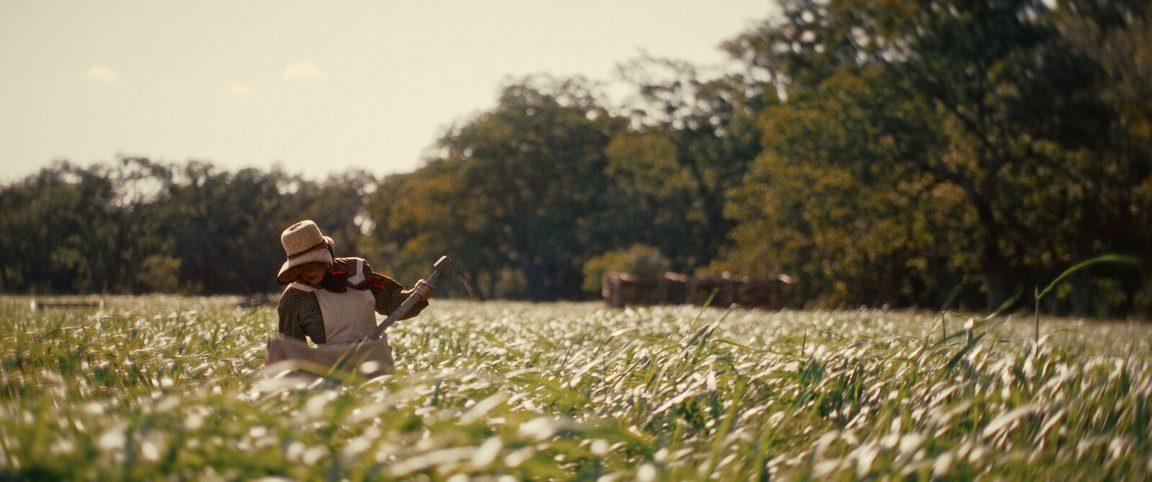
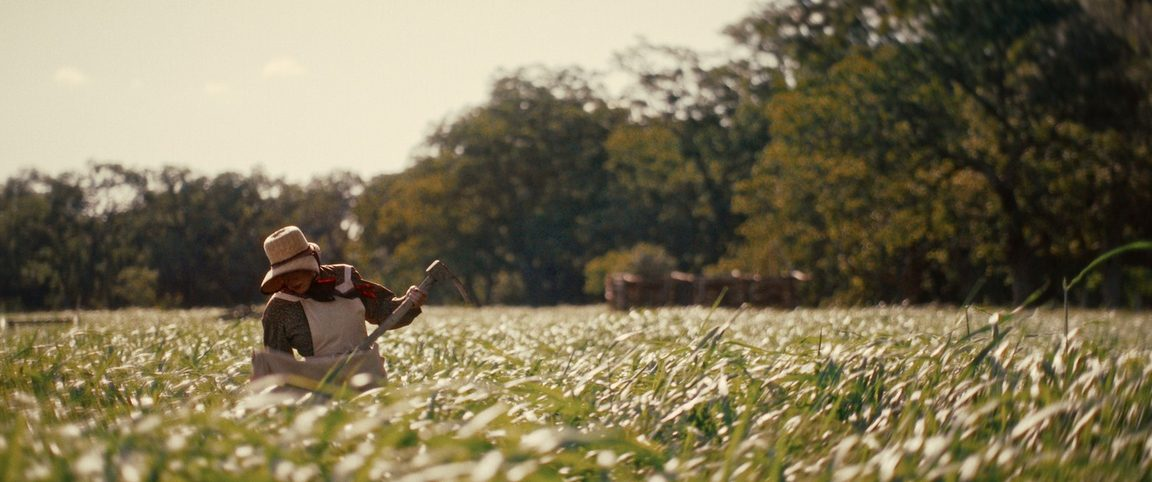
Texas Legacy in Lights: level the horizon on the field frame
The field still (frame6 — the violinist standing in the white flowers,
treeline behind her) was shot with a roll on it: the treeline runs
downhill to the right by 1.414 degrees. A Hough fit is the obvious way
to measure that and the wrong one here — the only long straight lines in
frame are foreground grass, which leans for reasons of perspective and
wind, and voting on them returns an answer about the grass (+3.0
degrees, dragged by the near blades).

scripts/level_horizon.py measures the thing that actually defines a
horizon instead. A landscape is horizontally stratified — sky, treeline,
field — and those bands are only crisp when the frame is level, so it
rotates through candidate angles and, at each one, collapses the frame
to a column of row means and sums the squared differences between
neighbouring rows. Tilt smears the bands across rows and flattens that
profile. The peak sits at +1.414 degrees and is unmistakable: levelling
sharpens the banding by 45%. An independent check agrees — fitting a
line through the per-column dark-to-bright transition where the trees
meet the field gives +1.243 before and -0.05 after.

Rotating leaves wedges in the corners, so the output is the largest
rectangle of the frame's own 2.388:1 aspect that fits inside the
rotation, scaled back to 1600x670 — a centred 5.86% push-in. Rotation,
crop and scale compose into one affine matrix and run in a single
Lanczos pass, so the picture is resampled once, not three times. What
[…]

diff --git a/scripts/level_horizon.py b/scripts/level_horizon.py
@@ -1,0 +1,191 @@
+#!/usr/bin/env python3
+"""Level a tilted horizon in a still, then re-crop to the frame's own aspect.
+
+The sibling of scripts/deskew_verticals.py. That one fixes a KEYSTONE — the
+camera pointed up or down, so verticals converge — with a projective warp.
+This one fixes a ROLL: the camera was level in pitch but rotated about the lens
+axis, so the horizon runs downhill. That is a plain rotation, and rotating is
+the whole correction. The two share nothing but the derivative-writing helpers,
+which are imported from deskew_verticals so the JPEG parameters can't drift.
+
+Written for img/tll/frame6.jpg — the Texas Legacy in Lights field frame, where
+the treeline falls about 1.4 degrees to the right. Nothing here is specific to
+that still, so it takes a path.
+
+MEASURING THE TILT. A Hough fit is the obvious move and it is the wrong one on
+this picture: the only long straight lines in frame are foreground grass, which
+leans for reasons of perspective and wind, and voting on them gives an answer
+about the grass. So measure the thing that actually defines a horizon instead —
+a landscape is horizontally STRATIFIED (sky, then treeline, then field), and
+those bands are only crisp when the frame is level. Rotate through a range of
+candidate angles and, at each one, collapse the frame to a column of row means
+and sum the squared differences between neighbouring rows. Tilt smears the
+bands across rows and flattens that profile; level sharpens it. The peak of
+that curve is the tilt, refined to a fraction of a step by fitting a parabola
+through the peak and its two neighbours.
+
+RE-CROPPING. Rotation leaves wedges of nothing in the corners, so the output is
+the largest rectangle of the SOURCE'S OWN ASPECT that fits inside the rotated
+frame, scaled back up to the source's pixel dimensions — which is exactly a
+centred push-in of a few percent. Rotation, crop and scale are composed into
+one affine matrix and applied in a single Lanczos pass, so the picture is
+resampled once rather than three times.
+
+IDEMPOTENT BY MEASUREMENT, not by a marker file: the measurement runs first and
+the rotation is skipped when the frame already measures level, so re-running
+this on its own output is a no-op rather than a second correction that would
+push in another few percent.
+
+Usage:
+    python3 scripts/level_horizon.py img/tll/frame6.jpg \
+        --shuffle-out img/shuffle/tll/6.jpg
+
+--shuffle-out regenerates the homepage tile derivative in the same pass, for
+the reason given in deskew_verticals.py: scripts/build_thumb_shuffle.py owns
+that file and would rebuild it from the corrected source anyway, and writing it
+here keeps the two copies of the picture from disagreeing in the meantime. TLL
+frames are wider than the tile cell, so the build gives them no vertical crop —
+their derivative is a plain resize to width, which is what save_jpeg does.
+"""
+
+import argparse
+import sys
+
+import cv2
+import numpy as np
+
+from deskew_verticals import GALLERY_QUALITY, SHUFFLE_QUALITY, SHUFFLE_WIDTH, save_jpeg
+
+# Search range for the roll. A frame further out than this is tilted on
+# purpose — a dutch angle is a decision, not a mistake, and this should not
+# quietly undo one.
+SEARCH_DEGREES = 4.0
+COARSE_STEP = 0.1
+FINE_STEP = 0.02
+# Ignore a border of this fraction on each side while measuring: rotation fills
+# the corners by replication, and those smeared rows are not evidence.
+MEASURE_INSET = 0.12
+# Below this the frame is level and the rotation is skipped. A correction
+# leaves well under 0.1 degrees behind, so re-running is a no-op.
+LEVEL_ENOUGH = 0.3            # degrees
+# The banding has to sharpen by at least this much at the peak, relative to
+# leaving the frame alone: a frame with nothing horizontal in it has a nearly
+# flat curve, and the argmax of a flat curve is noise. This is a floor against
+# acting on noise, NOT a horizon detector — a frame whose strongest horizontal
+# structure is not its horizon will clear it. Choosing the frame is the
+# operator's job; the frame6 field clears this by 45%.
+MIN_SHARPENING = 0.05         # +5%
+
+
+def rotate(bgr, degrees, scale=1.0, interpolation=cv2.INTER_LINEAR):
+    """Rotate anticlockwise about the centre, keeping the frame size."""
+    h, w = bgr.shape[:2]
+    matrix = cv2.getRotationMatrix2D((w / 2.0, h / 2.0), degrees, scale)
+    return cv2.warpAffine(bgr, matrix, (w, h), flags=interpolation,
+                          borderMode=cv2.BORDER_REPLICATE)
+
+
+def banding(gray, degrees):
+    """How crisply the frame stratifies into horizontal bands at this angle."""
+    h, w = gray.shape[:2]
+    rotated = rotate(gray, degrees) if degrees else gray
+    mx, my = int(w * MEASURE_INSET), int(h * MEASURE_INSET)
+    rows = rotated[my:h - my, mx:w - mx].mean(axis=1)
+    return float((np.diff(rows) ** 2).sum())
+
+
+def tilt(bgr):
+    """Roll of the horizon in degrees, and how much levelling sharpens it.
+
+    Positive means the horizon falls to the right, i.e. the frame wants an
+    anticlockwise rotation by that many degrees.
+    """
+    gray = cv2.cvtColor(bgr, cv2.COLOR_BGR2GRAY).astype(np.float32)
+
+    def peak(angles):
+        scores = [banding(gray, float(a)) for a in angles]
+        return int(np.argmax(scores)), scores
+
+    coarse = np.arange(-SEARCH_DEGREES, SEARCH_DEGREES + 1e-9, COARSE_STEP)
+    i, _ = peak(coarse)
+    if i in (0, len(coarse) - 1):
+        return None, 0.0     # peak is outside the range — not a roll we fix
+
+    fine = np.arange(coarse[i] - COARSE_STEP * 2,
+                     coarse[i] + COARSE_STEP * 2 + 1e-9, FINE_STEP)
+    j, scores = peak(fine)
+    best = float(fine[j])
+    if 0 < j < len(fine) - 1:
+        lo, mid, hi = scores[j - 1], scores[j], scores[j + 1]
+        curvature = lo - 2 * mid + hi
+        if curvature < 0:    # a real peak, not a plateau
+            best += 0.5 * (lo - hi) / curvature * FINE_STEP
+    return best, scores[j] / banding(gray, 0.0) - 1.0
+
+
+def fill_scale(w, h, degrees):
+    """Zoom that makes a rotated w x h frame cover a w x h output with no gaps.
+
+    Which is the same thing as the inverse of the largest same-aspect rectangle
+    that fits inside the rotation — the corners of the output, rotated back
+    into the source, have to stay inside it.
+    """
+    cos, sin = abs(np.cos(np.radians(degrees))), abs(np.sin(np.radians(degrees)))
+    return float(max((w * cos + h * sin) / w, (w * sin + h * cos) / h))
+
+
+def main():
+    ap = argparse.ArgumentParser(description=__doc__,
+                                 formatter_class=argparse.RawDescriptionHelpFormatter)
+    ap.add_argument("image", help="still to correct, rewritten in place")
+    ap.add_argument("--shuffle-out", help="also write the homepage tile crop here")
+    ap.add_argument("--dry-run", action="store_true", help="measure only")
+    args = ap.parse_args()
+
+    bgr = cv2.imread(args.image)
+    if bgr is None:
+        sys.exit(f"cannot read {args.image}")
+    h, w = bgr.shape[:2]
+
+    before, sharpening = tilt(bgr)
+    if before is None:
+        sys.exit("  no horizon peak inside "
+                 f"+/-{SEARCH_DEGREES}deg — leave this one alone")
+    print(f"{args.image}: horizon tilt {before:+.3f}deg "
+          f"(levelling sharpens the banding by {sharpening * 100:.1f}%)")
+    # Level first, floor second: a frame this script has already corrected
+    # measures level AND flat (there is no tilt left for levelling to sharpen),
+    # so testing the floor first would report its own output as horizonless.
+    if abs(before) < LEVEL_ENOUGH:
+        print(f"  already within {LEVEL_ENOUGH}deg of level — nothing to do")
+        return
+    if sharpening < MIN_SHARPENING:
+        sys.exit(f"  under the {MIN_SHARPENING * 100:.0f}% floor — this frame has no "
+                 "horizon to level, leave it alone")
+
+    scale = fill_scale(w, h, before)
+    fixed = rotate(bgr, before, scale, cv2.INTER_LANCZOS4)
+    after, _ = tilt(fixed)
+    print(f"  rotate {before:+.3f}deg, push in {(scale - 1) * 100:.2f}% to refill "
+          f"the frame (keeps {w}x{h})")
+    print(f"  tilt {before:+.3f}deg -> {after:+.3f}deg")
+
+    # Refuse to ship a regression, by the same measurement that found the
+    # problem — so this is a real check, not a formality.
+    if after is None or abs(after) >= abs(before):
+        sys.exit("  correction did not level the horizon — nothing written")
+
+    if args.dry_run:
+        print("  dry run — nothing written")
+        return
+
+    size = save_jpeg(fixed, args.image, GALLERY_QUALITY)
+    print(f"  wrote {args.image} {size[0]}x{size[1]}")
+    if args.shuffle_out:
+        size = save_jpeg(fixed, args.shuffle_out, SHUFFLE_QUALITY,
+                         width=SHUFFLE_WIDTH, progressive=True)
+        print(f"  wrote {args.shuffle_out} {size[0]}x{size[1]}")
+
+
+if __name__ == "__main__":
+    main()
